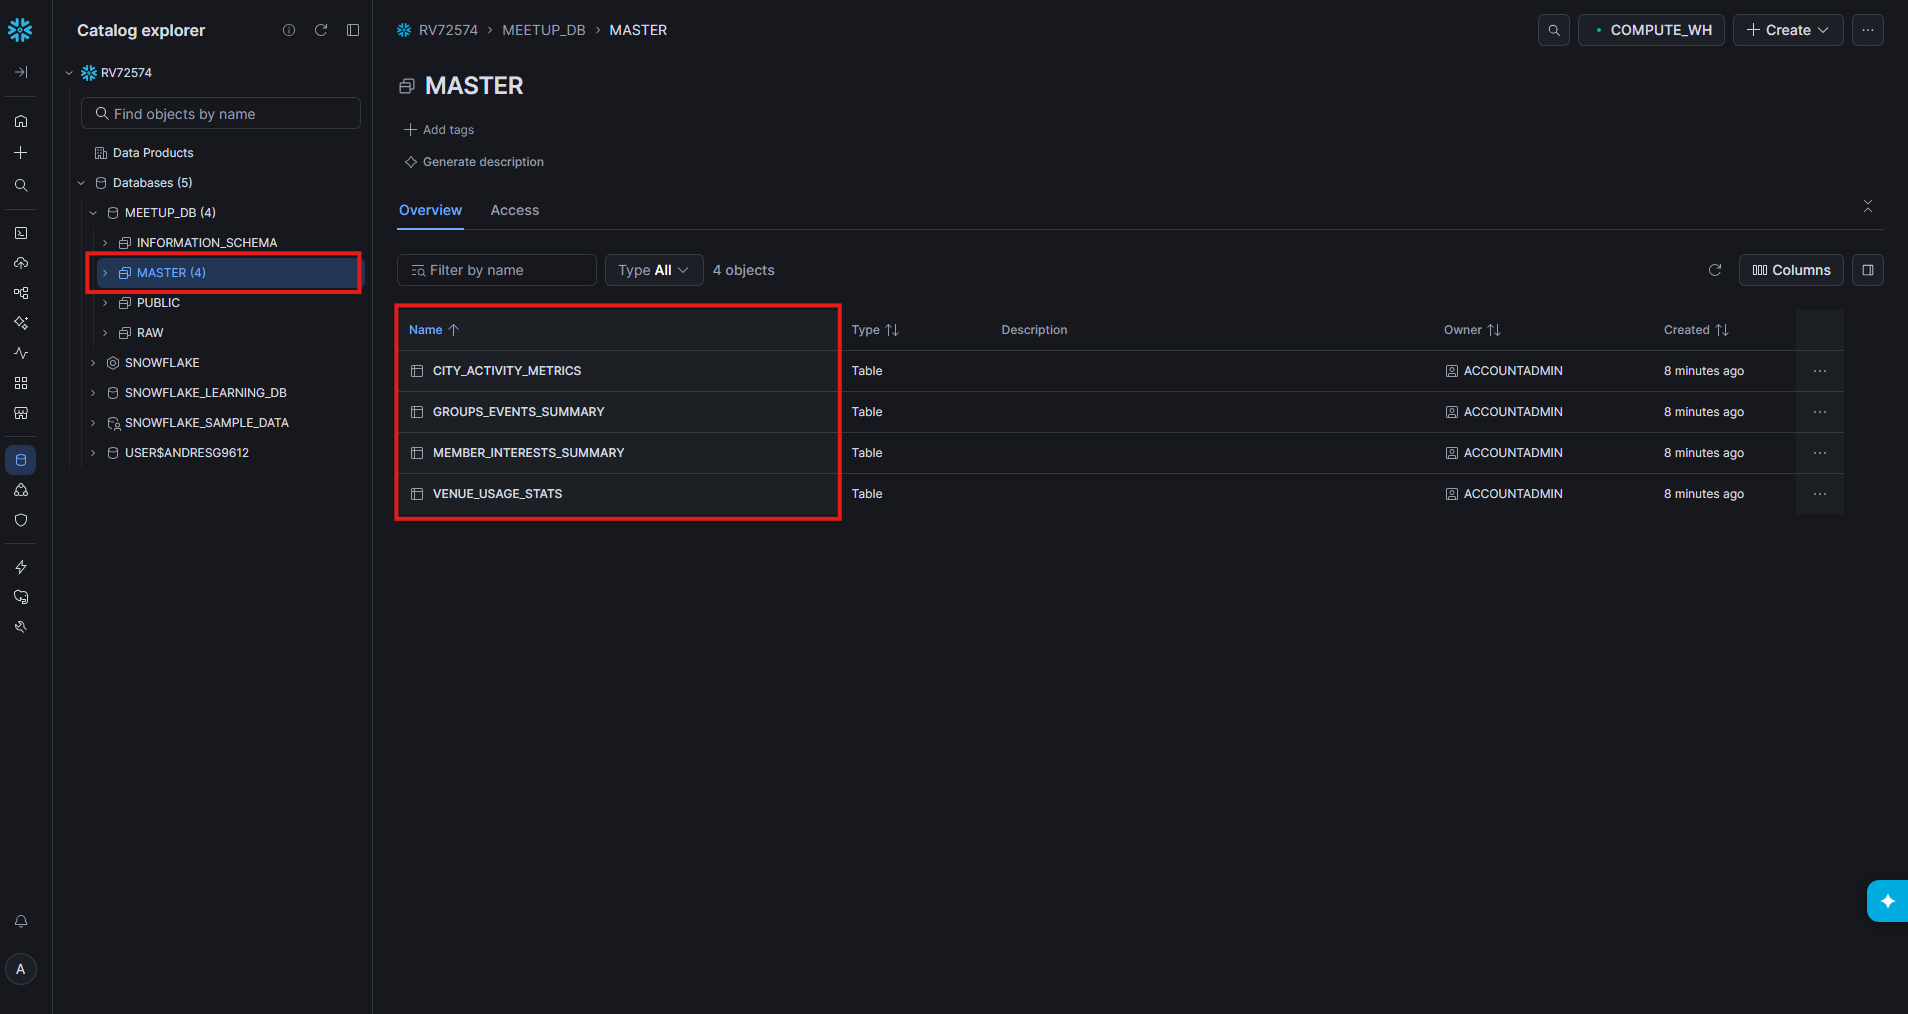
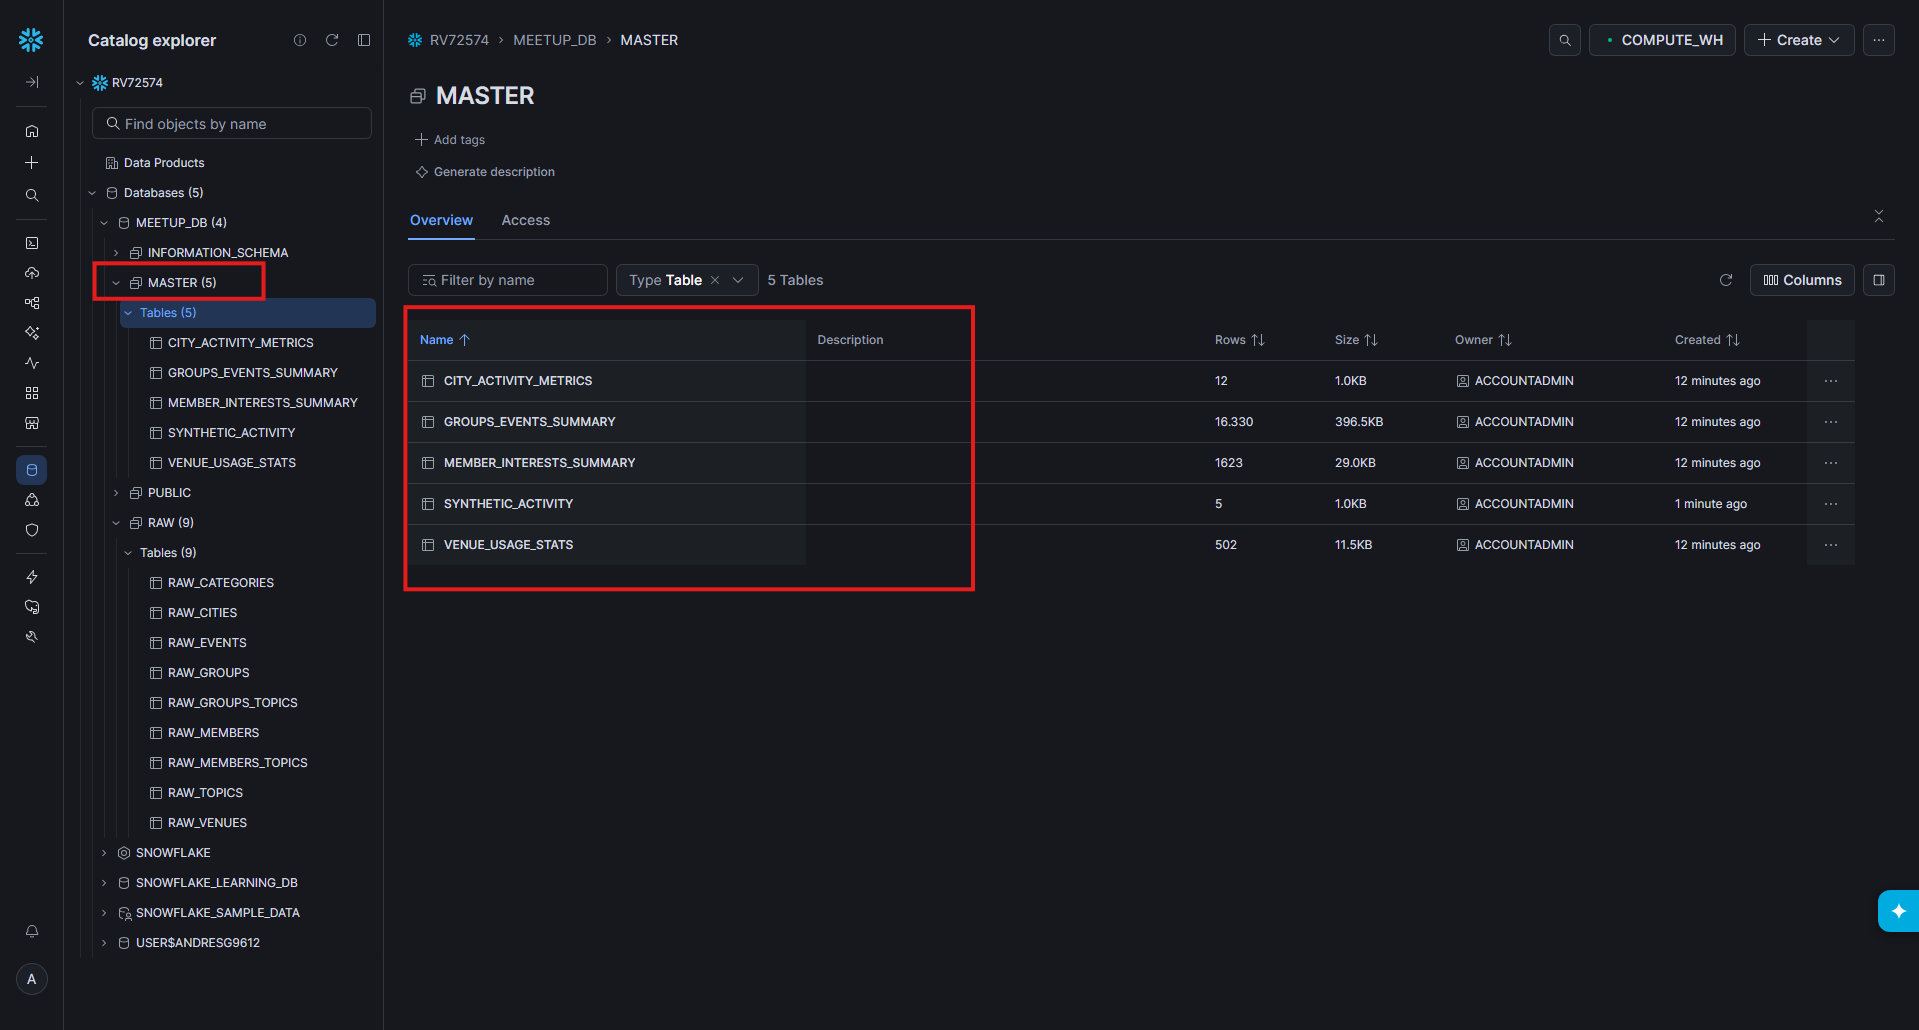
feat: implement incremental load in master tables to persist MERGE history

diff --git a/dags/meetup_etl.py b/dags/meetup_etl.py
@@ -27,7 +27,7 @@ with DAG(
     # Mide el nivel de actividad de cada grupo. Expone cuántos eventos históricos han organizado y la fecha de su evento más reciente,
     # lo que permite identificar rápidamente comunidades líderes frente a grupos inactivos.
     query_groups = """
-    CREATE OR REPLACE TABLE MEETUP_DB.MASTER.GROUPS_EVENTS_SUMMARY AS
+    CREATE TABLE IF NOT EXISTS MEETUP_DB.MASTER.GROUPS_EVENTS_SUMMARY AS
     SELECT 
         g.GROUP_ID,
         g.GROUP_NAME,
@@ -45,7 +45,7 @@ with DAG(
 
     # Muestra el volumen total de grupos y eventos por ciudad y país, información clave para decidir dónde enfocar campañas de marketing o expansión.
     query_cities = """
-    CREATE OR REPLACE TABLE MEETUP_DB.MASTER.CITY_ACTIVITY_METRICS AS
+    CREATE TABLE IF NOT EXISTS MEETUP_DB.MASTER.CITY_ACTIVITY_METRICS AS
     SELECT 
         c.CITY, c.COUNTRY, 
         COUNT(DISTINCT g.GROUP_ID) AS total_groups, 
@@ -59,7 +59,7 @@ with DAG(
     # Revela la popularidad de las temáticas en toda la plataforma. Contabiliza cuántos usuarios reales siguen cada tópico,
     # vital para entender la demanda macro y predecir qué tipos de eventos tendrán más asistencia.
     query_interests = """
-    CREATE OR REPLACE TABLE MEETUP_DB.MASTER.MEMBER_INTERESTS_SUMMARY AS
+    CREATE TABLE IF NOT EXISTS MEETUP_DB.MASTER.MEMBER_INTERESTS_SUMMARY AS
     SELECT 
         t.TOPIC_NAME, 
         COUNT(mt.MEMBER_ID) AS total_interested_members
@@ -70,13 +70,30 @@ with DAG(
 
     # Identifica los espacios físicos más recurrentes, permite descubrir locaciones clave
     query_venues = """
-    CREATE OR REPLACE TABLE MEETUP_DB.MASTER.VENUE_USAGE_STATS AS
+    CREATE TABLE IF NOT EXISTS MEETUP_DB.MASTER.VENUE_USAGE_STATS AS
     SELECT 
         v.VENUE_ID, v.VENUE_NAME, v.CITY, 
         COUNT(e.EVENT_ID) AS total_events_hosted
     FROM MEETUP_DB.RAW.RAW_VENUES v
     JOIN MEETUP_DB.RAW.RAW_EVENTS e ON v.VENUE_ID = e.VENUE_ID
     GROUP BY v.VENUE_ID, v.VENUE_NAME, v.CITY;
+    """
+
+    # Crea una tabla temporal seleccionando 5 ciudades al azar y asignándoles entre 1 y 50 eventos nuevos usando funciones nativas.
+    query_generate_synthetic = """
+    CREATE OR REPLACE TABLE MEETUP_DB.MASTER.SYNTHETIC_ACTIVITY AS 
+    SELECT CITY, UNIFORM(1, 50, RANDOM()) AS new_synthetic_events
+    FROM MEETUP_DB.RAW.RAW_CITIES 
+    SAMPLE (5 ROWS);
+    """
+
+    # Actualiza la tabla maestra sumando los eventos ficticios únicamente a las ciudades que hicieron match.
+    query_merge_data = """
+    MERGE INTO MEETUP_DB.MASTER.CITY_ACTIVITY_METRICS target
+    USING MEETUP_DB.MASTER.SYNTHETIC_ACTIVITY source
+    ON target.CITY = source.CITY
+    WHEN MATCHED THEN 
+        UPDATE SET target.TOTAL_EVENTS = target.TOTAL_EVENTS + source.new_synthetic_events;
     """
 
     # Nodos flag de inicio y fin 
@@ -110,6 +127,25 @@ with DAG(
         snowflake_conn_id='snowflake_default',
         sql=query_venues
     )
+    
+    # Tarea 5
+    task_generate_synthetic = SnowflakeOperator(
+        task_id='generate_synthetic_activity',
+        snowflake_conn_id='snowflake_default',
+        sql=query_generate_synthetic
+    )
+    
+    # Tarea 6
+    task_merge_data = SnowflakeOperator(
+        task_id='merge_synthetic_data',
+        snowflake_conn_id='snowflake_default',
+        sql=query_merge_data
+    )
 
     # Flujo de ejecución
-    start_pipeline >> [task_groups, task_cities, task_interests, task_venues] >> end_pipeline
+    start_pipeline >> [task_groups, task_cities, task_interests, task_venues]
+    
+    task_cities >> task_generate_synthetic >> task_merge_data >> end_pipeline
+    task_groups >> end_pipeline
+    task_interests >> end_pipeline
+    task_venues >> end_pipeline
